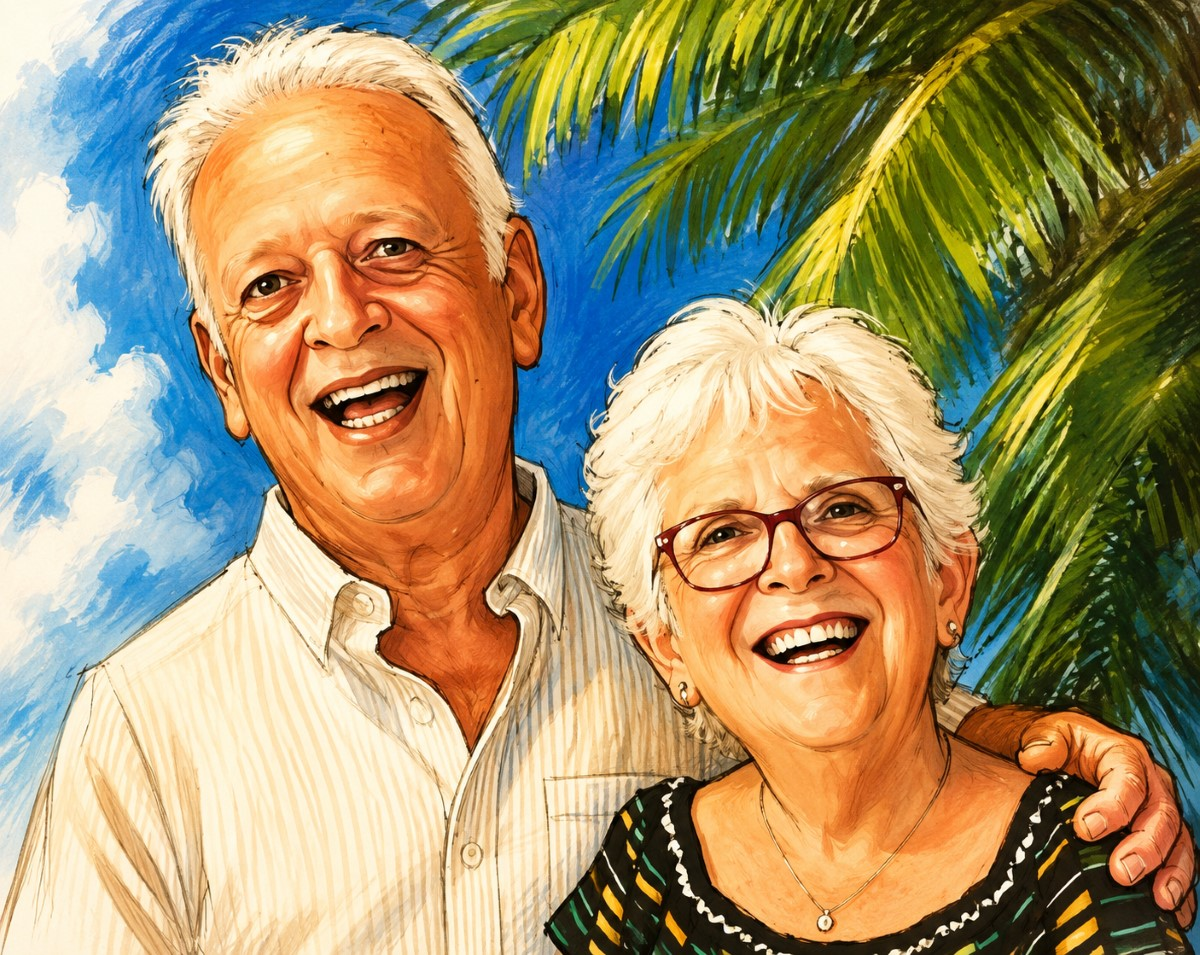
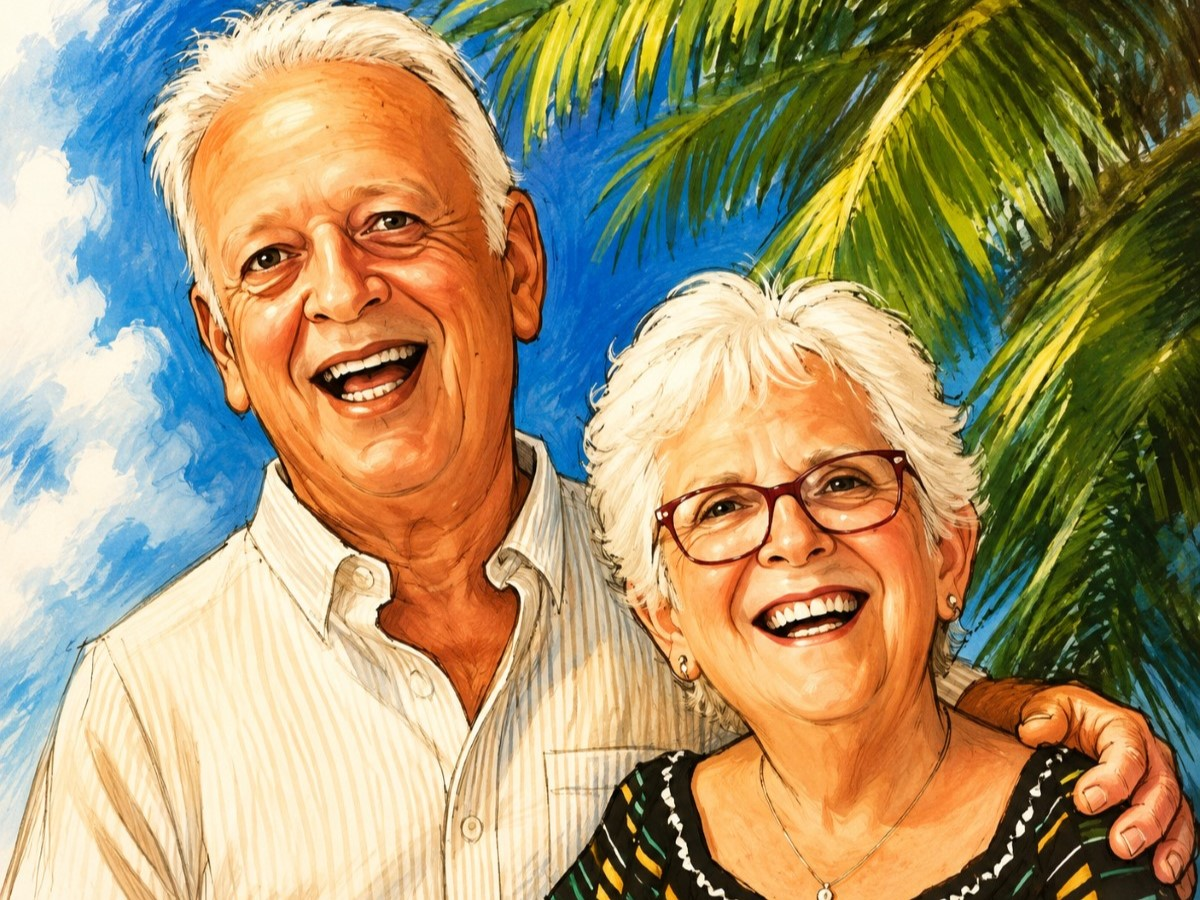
crop rounds

diff --git a/css/styles.css b/css/styles.css
@@ -2348,11 +2348,3 @@ input:focus {
         margin-right: auto !important;
     }
 }
-/* Round intro pictures - fill gold frame on phones */
-@media (max-width: 600px) {
-    .round-photo {
-        width: 100% !important;
-        max-width: 100% !important;
-        object-fit: cover !important;
-    }
-}
